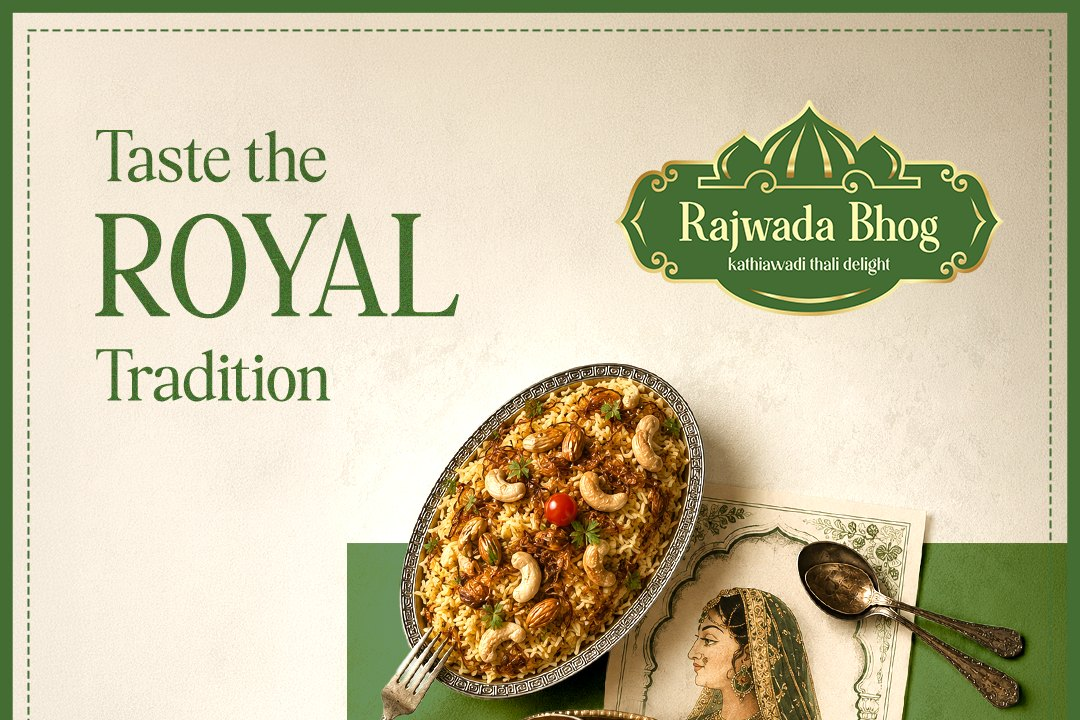
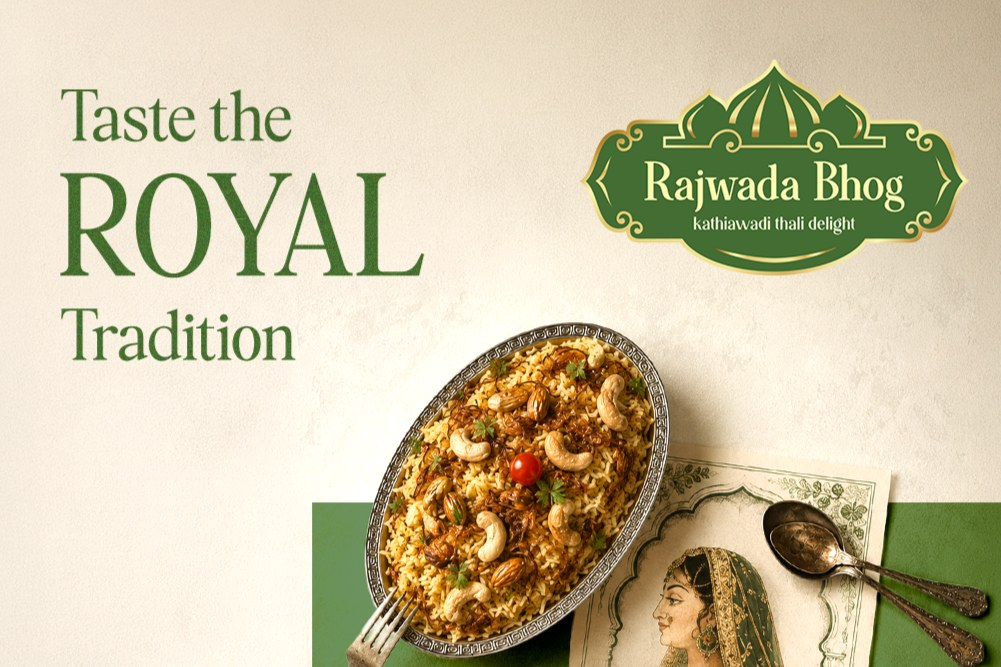
Rajwada Bhog: use the supplied 3:2 creative, kicker to top left, lead the deck
The brand supplied the banner already cropped and fitted (1001x667, 3:2 to
within half a pixel), so it replaces the crop taken off the portrait original
and needs no creativeFocus.

The category moves from above the floor chip to the top left, the corner the
built banners put it in. Its padding is in percentages now rather than
pixels, because what it lines up with is a percentage - the artwork's own
margins, 6.0% from the left and 13.3% down. Note percentage padding resolves
against width on all four sides, so the vertical values are divided by the
3:2 ratio.

Order is Rajwada Bhog, Punjab Grill, Vivo; the rest unchanged.

diff --git a/css/spotlight.css b/css/spotlight.css
@@ -242,33 +242,37 @@
    card shows it whole rather than cropping it again.
 
    Where the copy goes is a property of the artwork, not
-   of this stylesheet: these designs reserve a quiet
-   column for their own lockup, and that is where the
-   category and floor sit. Rajwada Bhog's is the lower
-   left — measured flat cream from x=60 to x=345 of 1080
-   and from y=470 down, which is why the column is 32%
-   wide and bottom-aligned. A creative that reserves its
-   space elsewhere needs its own rule here. */
+   of this stylesheet. Rajwada Bhog leaves cream margin
+   above its headline and down its left side, so the
+   category sits top left — the same corner the built
+   banners put it in — and the floor keeps the bottom of
+   that column, where the cream runs to x=312 of 1001.
+   A creative that reserves its space elsewhere needs
+   its own rule here. */
 .spot-card--art {
   background: var(--bg, var(--surface));
-  padding-left: 20px;          /* clears the dashed keyline */
+  /* Padding in percentages, not pixels, because what it has to line
+     up with is a percentage: the artwork's own margins. Its headline
+     ink starts 6.0% from the left and 13.3% down, so the kicker sits
+     flush with "Taste the" and clear above it. Fixed pixels would
+     match at one card width and drift at every other.
+
+     Note percentage padding resolves against WIDTH on all four
+     sides, so the vertical values are divided by the 3:2 ratio:
+     3% of the width is the 4.5% of the height it's aiming at. */
+  padding: 3% 16px 5.7% 6%;
 }
-.spot-card--art .spot-copy {
-  width: 36%; z-index: 2;
-  justify-content: flex-end;   /* sit in the reserved column */
-  gap: 7px;
-}
-/* "RESTAURANTS" is 83px at the banner default and the column is 84px
-   wide, so it ellipsised. Tightened rather than widened: the cream
-   runs to x=409 on the kicker's rows but only to x=347 on the chip's,
-   and one column can't be two widths. */
-.spot-card--art .spot-kicker { font-size: 8.5px; letter-spacing: 0.10em; }
-/* The kicker takes the artwork's own ink rather than the
-   banner default, which is a 55%-alpha near-black: on cream
-   that measures 3.9:1 and this is 9px uppercase. The green
-   the designer set the headline in measures 6.9:1. */
+.spot-card--art .spot-copy { width: 36%; z-index: 2; }
+/* 8.5px rather than the banner's 9px, and tighter tracking, for the
+   same reason: what's left between the card edge and the artwork's
+   headline is about 15px, and the line has to sit inside it. */
+.spot-card--art .spot-kicker { font-size: 8.5px; letter-spacing: 0.12em; }
+/* The kicker takes the artwork's own ink rather than the banner
+   default, which is a 55%-alpha near-black: on this cream that
+   measures 3.9:1, at 8.5px uppercase. The green the designer set the
+   headline in measures 5.7:1 against the darkest part of the corner
+   it sits in. */
 .spot-card--art .spot-kicker { color: var(--ink, var(--fg-dim)); opacity: 0.85; }
-.spot-card--art .spot-loc { margin-top: 0; }
 
 /* ── Featured badge — the reference's "Ad" corner ── */
 .spot-badge {

diff --git a/js/featured.js b/js/featured.js
@@ -51,13 +51,31 @@
    ── About the order ─────────────────────────────────────────
    Neighbouring banners shouldn't share a background hue, and
    that includes the wrap from the last card back to the first.
-   Current run: dark, sky, artwork, mint, blush, butter, steel,
-   sand, lilac. Rajwada Bhog took Tissot's slot but not its
-   position -- it sits after Vivo so the two photo-led cards
-   (Punjab Grill and this one) aren't neighbours.
+   Current run: artwork, dark, sky, mint, blush, butter, steel,
+   sand, lilac. The two photo-led cards lead the deck back to
+   back, which is a deliberate choice and not an oversight --
+   one is bright cream, the other near-black, so they don't
+   read as a pair.
    ============================================================ */
 
 const FEATURED = [
+  {
+    store: 'RAJWADA BHOG',
+    category: 'Restaurants',
+    floors: ['3f'],
+    /* A finished piece of brand artwork, not a photograph to build a
+       banner from -- it already carries its own headline and its own
+       logo. So `creativeBare` turns off everything the banner would
+       normally add on top: no scrim, no headline of ours, no corner
+       mark. The card becomes the artwork plus the two things only the
+       directory can say -- the category and the floor.
+
+       Supplied at 1001x667, which is 3:2 to within half a pixel, so it
+       lands in the card whole and needs no creativeFocus. */
+    creative: 'assets/creatives/rajwada-bhog.jpg',
+    creativeBare: true,
+    brand: { bg: '#F0E9D9', ink: '#375E22' }
+  },
   {
     store: 'PUNJAB GRILL',
     category: 'Restaurants',
@@ -91,28 +109,6 @@ const FEATURED = [
     headline: 'Smartphones & more',
     logo: 'assets/brands/vivo.png',
     brand: { bg: '#D3E6F7', ink: '#0070B8' }
-  },
-  {
-    store: 'RAJWADA BHOG',
-    category: 'Restaurants',
-    floors: ['3f'],
-    /* A finished piece of brand artwork, not a photograph to build a
-       banner from -- it already carries its own headline, its own
-       logo and its own "now open" line. So `creativeBare` turns off
-       everything the banner would normally add on top: no scrim, no
-       headline of ours, no corner mark. The card becomes the artwork
-       plus the two things only the directory can say -- the category
-       and the floor -- set in the empty column the designer left at
-       the lower left, where the Felix Plaza lockup used to sit.
-
-       Cropped to the top 720 rows of the 1080x1350 original, which is
-       exactly 3:2 and so lands in the card 1:1 with no further crop.
-       That keeps "Taste the ROYAL Tradition", the Rajwada Bhog mark
-       and the biryani, and drops the "NOW OPEN @ Felix Plaza" band --
-       redundant on a directory that only lists stores that are open. */
-    creative: 'assets/creatives/rajwada-bhog.jpg',
-    creativeBare: true,
-    brand: { bg: '#F0E9D9', ink: '#375E22' }
   },
   {
     store: 'BABYSHOP',

diff --git a/index.html b/index.html
@@ -11,15 +11,15 @@
 <link rel="preconnect" href="https://fonts.gstatic.com" crossorigin>
 <link href="https://fonts.googleapis.com/css2?family=Inter:wght@400;500;600;700;800;900&display=swap" rel="stylesheet">
 
-<link rel="stylesheet" href="css/tokens.css?v=40">
-<link rel="stylesheet" href="css/base.css?v=40">
-<link rel="stylesheet" href="css/ticker.css?v=40">
-<link rel="stylesheet" href="css/header.css?v=40">
-<link rel="stylesheet" href="css/spotlight.css?v=40">
-<link rel="stylesheet" href="css/browse.css?v=40">
-<link rel="stylesheet" href="css/sheet.css?v=40">
-<link rel="stylesheet" href="css/store-list.css?v=40">
-<link rel="stylesheet" href="css/footer.css?v=40">
+<link rel="stylesheet" href="css/tokens.css?v=41">
+<link rel="stylesheet" href="css/base.css?v=41">
+<link rel="stylesheet" href="css/ticker.css?v=41">
+<link rel="stylesheet" href="css/header.css?v=41">
+<link rel="stylesheet" href="css/spotlight.css?v=41">
+<link rel="stylesheet" href="css/browse.css?v=41">
+<link rel="stylesheet" href="css/sheet.css?v=41">
+<link rel="stylesheet" href="css/store-list.css?v=41">
+<link rel="stylesheet" href="css/footer.css?v=41">
 </head>
 <body>
 
@@ -176,10 +176,10 @@
   </div>
 </div>
 
-<script src="js/data.js?v=40"></script>
-<script src="js/featured.js?v=40"></script>
-<script src="js/spotlight.js?v=40"></script>
-<script src="js/directory.js?v=40"></script>
-<script src="js/app.js?v=40"></script>
+<script src="js/data.js?v=41"></script>
+<script src="js/featured.js?v=41"></script>
+<script src="js/spotlight.js?v=41"></script>
+<script src="js/directory.js?v=41"></script>
+<script src="js/app.js?v=41"></script>
 </body>
 </html>

diff --git a/README.md b/README.md
@@ -92,28 +92,34 @@ to the picture plus the two things it can't know about itself: the category
 and the floor.
 
 Where those two sit is a property of the artwork, not of the stylesheet.
-These designs reserve a quiet column for their own lockup; that's the space
-to borrow. Rajwada Bhog's is the lower left — flat cream from x=60 to x=345
-of 1080, and from y=470 down — which is why `.spot-card--art .spot-copy` is
-36% wide and bottom-aligned. **A creative that reserves its space somewhere
-else needs its own rule.**
+Rajwada Bhog leaves cream margin above its headline and down its left side,
+so the category sits top left — the corner the built banners put it in — and
+the floor keeps the bottom of that column. **A creative that reserves its
+space somewhere else needs its own rule.**
 
-Two things that column cost, both worth knowing before the next one:
+Three things that column cost, all worth knowing before the next one:
 
-- The kicker had to drop to 8.5px at 0.10em. "RESTAURANTS" is 83px at the
-  banner default and the column is 84px. The cream runs to x=409 on the
-  kicker's rows but only to x=347 on the chip's, and one column can't be two
-  widths.
+- **The padding is in percentages**, because what it lines up with is a
+  percentage: the artwork's own margins. Its headline ink starts 6.0% from
+  the left and 13.3% down. Fixed pixels match at one card width and drift at
+  every other. Percentage padding resolves against **width** on all four
+  sides, so the vertical values are divided by the 3:2 ratio — 3% of the
+  width is the 4.5% of the height it's aiming at.
+- The kicker is 8.5px at 0.12em rather than the banner's 9px/0.16em. What's
+  left between the card edge and the artwork's headline is about 15px, and
+  the line has to sit inside it.
 - The badge needed a plate of its own (`.spot-card.spot-card--art`, doubled
   class so it outranks the light/dark token block rather than merely
-  preceding it). Its corner is the one busy part of the picture, and the
-  light default is a 10% near-black wash that disappears there.
+  preceding it). Its corner is the one busy part of the picture — green
+  ground with a bright metal highlight through it — and the light default is
+  a 10% near-black wash that disappears there.
 
-**Crop the file to 3:2 before it ships**, so the card shows it whole instead
-of cropping it again. Rajwada Bhog is the top 720 rows of a 1080×1350
-original — exactly 3:2 — which keeps the headline, the mark and the biryani
-and drops the "NOW OPEN @ Felix Plaza" band, redundant on a directory that
-only lists stores that are open.
+**Ask for the file at 3:2**, so the card shows it whole instead of cropping
+it again. Rajwada Bhog's is supplied at 1001×667, which is 3:2 to within half
+a pixel and needs no `creativeFocus` at all. When artwork only exists in
+another shape, crop it to 3:2 yourself rather than leaning on `creativeFocus`
+— that crops from the centre of whatever it's given, and a bare card has no
+scrim to hide a bad edge under.
 
 ### Headlines
 
